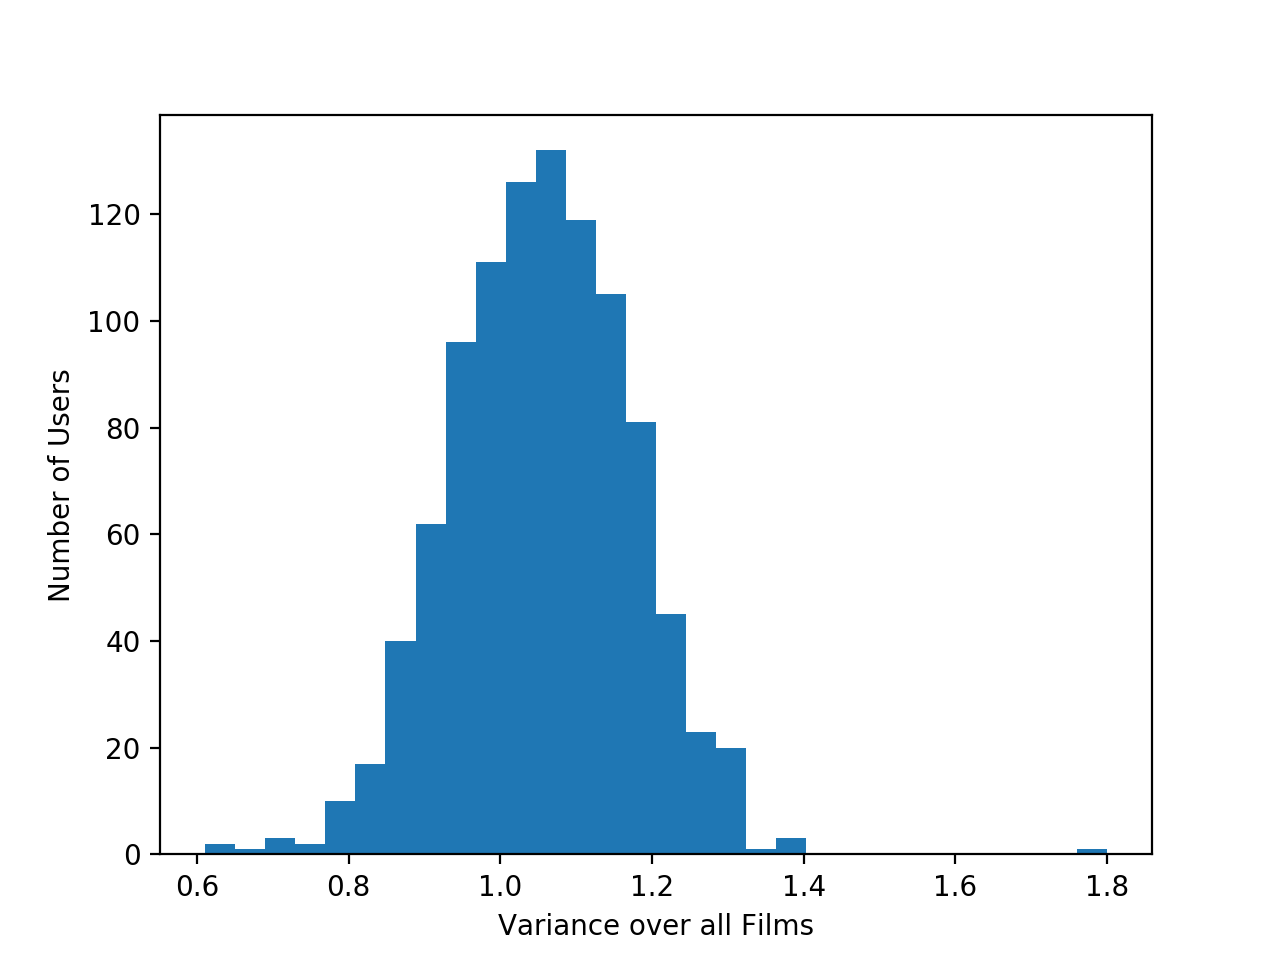
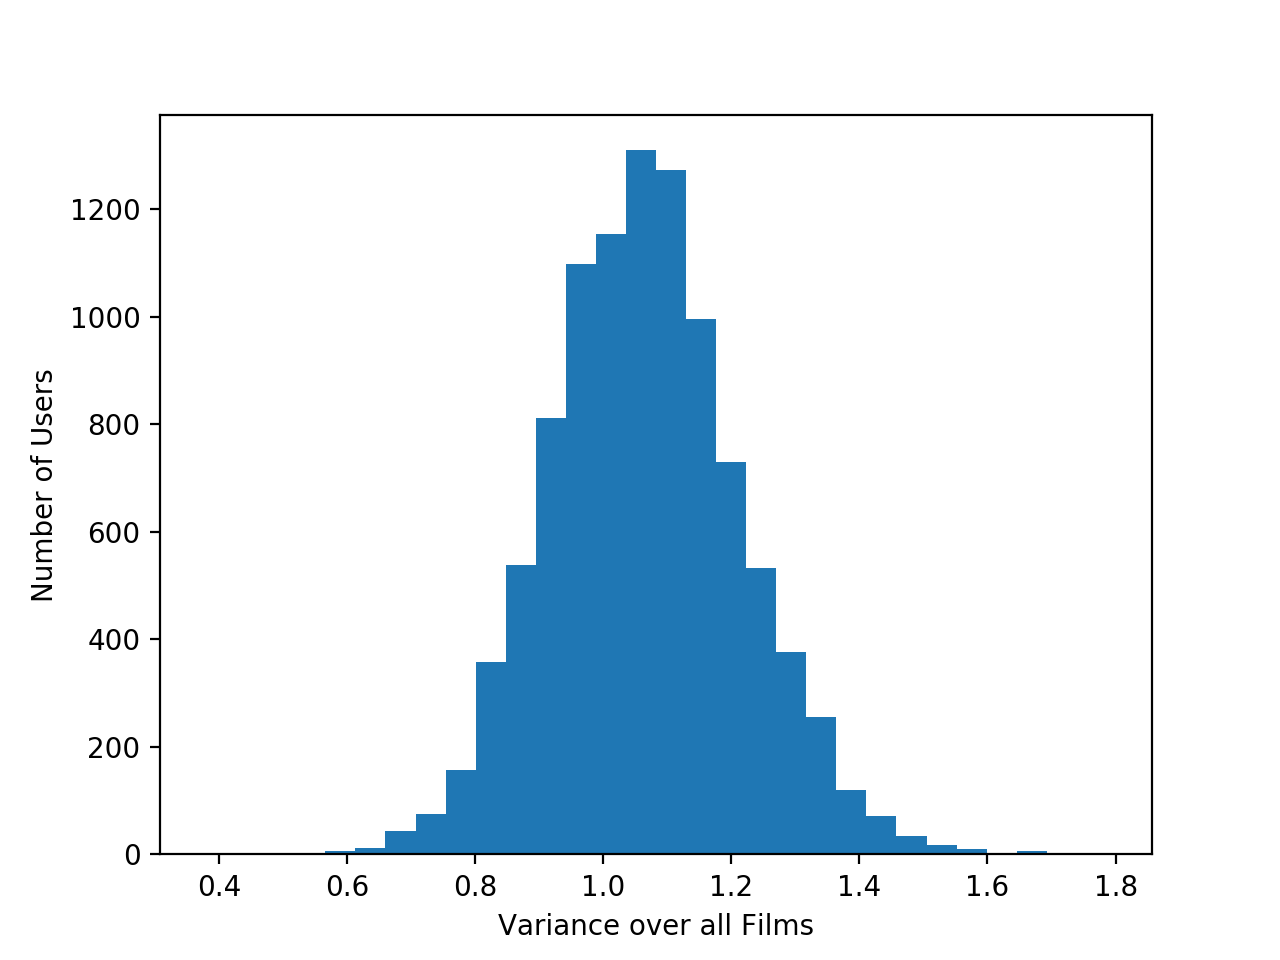
Correction in variance histogram

diff --git a/test.py b/test.py
@@ -127,7 +127,7 @@ def data_exploration(data):
     StdPerUser = data.groupby('r').std()
 
     f6 = plt.figure(6)
-    plt.hist(np.transpose(StdPerFilm), bins=30)
+    plt.hist(np.transpose(StdPerUser), bins=30)
     plt.xlabel("Variance over all Films")
     plt.ylabel("Number of Users")
     # plt.show()

diff --git a/Learning_blending.py b/Learning_blending.py
@@ -65,7 +65,7 @@ print(prediction.shape)
 
 ## Blending function
 # test without CV
-print("learn blending wieghts")
+print("learn blending weights")
 
 y = pandas['Rating']
 X = np.transpose(prediction)
